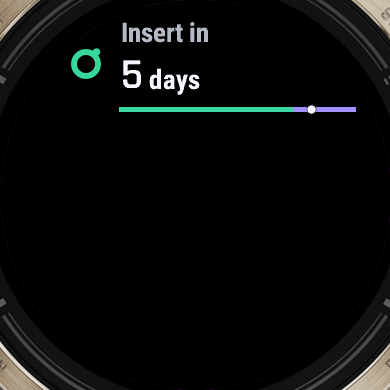
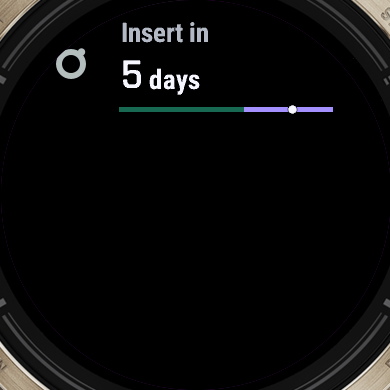
Round 2 checkpoint

Changed region(s): [[0.3077, 0.2462, 0.8308, 0.3077], [0.1231, 0.1231, 0.2769, 0.2154], [0.8615, 0.2769, 0.9231, 0.3077]]

diff --git a/docs/IMPLEMENTATION.md b/docs/IMPLEMENTATION.md
@@ -215,12 +215,21 @@ ring/dot icon.
 
 Two contract tensions are intentional and documented:
 
-- Garmin supplies the app glyph beside a glance, so it remains the green
-  launcher glyph; the drawable cannot recolour it per glance state. Overdue
-  state is still carried by the orange title, value, bar, and overflow tail.
-- The required Reminder 2 titles `Still in — remove` and
-  `Still out — insert` exceed the nominal 15-character title budget. The
-  required distinguishing phrases take precedence and fit the target card.
+- Garmin supplies the app glyph beside a glance, so it cannot be recoloured by
+  state. Round 2 makes that shared launcher glyph neutral grey; the title,
+  value, and bar carry state colour.
+- Garmin's native notification API controls text colour. The debug evidence
+  surface renders late lines orange, while production supplies the same late
+  copy to the native card without an unsupported colour option. The mandated
+  `Remove ring today` / `Insert ring today` titles exceed 15 characters but
+  fit the target card; all titles whose wording is flexible remain at most 15.
+
+Round-2 constrained-UI polish uses the same local lateness rule in both
+personalities (`29h` below 48 hours, `2d` from 48 hours), keeps the glance icon
+neutral, gives temporary ring-out its own reinsert copy, and standardizes
+notification hints and serious-state facts. The local formatters deliberately
+avoid a foreground dependency and can be replaced by the shared formatter at
+integration.
 
 No other item in `docs/ux-review/DECISIONS.md` remains unimplemented. Native
 menus may reveal a deliberately partial adjacent row at the round bezel while
